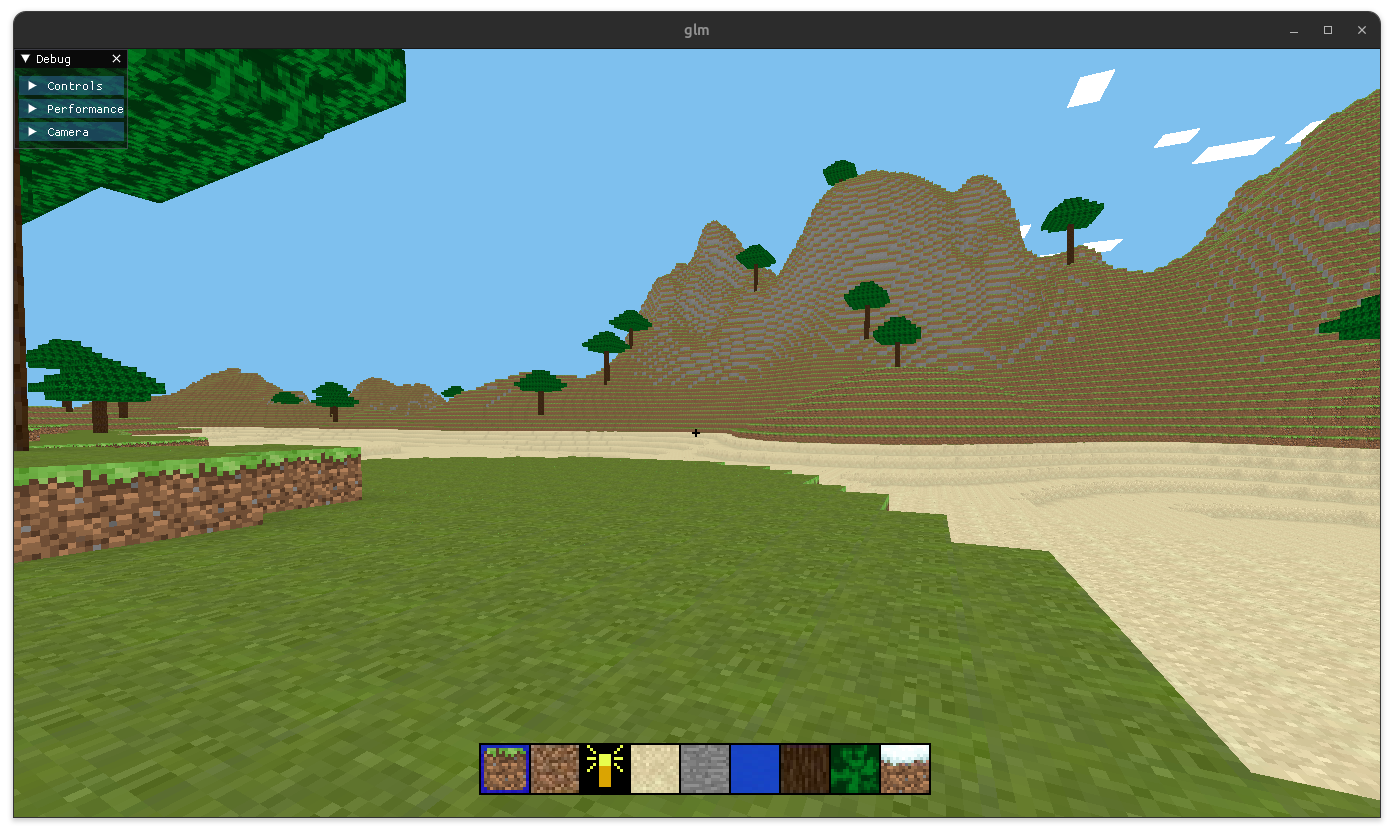
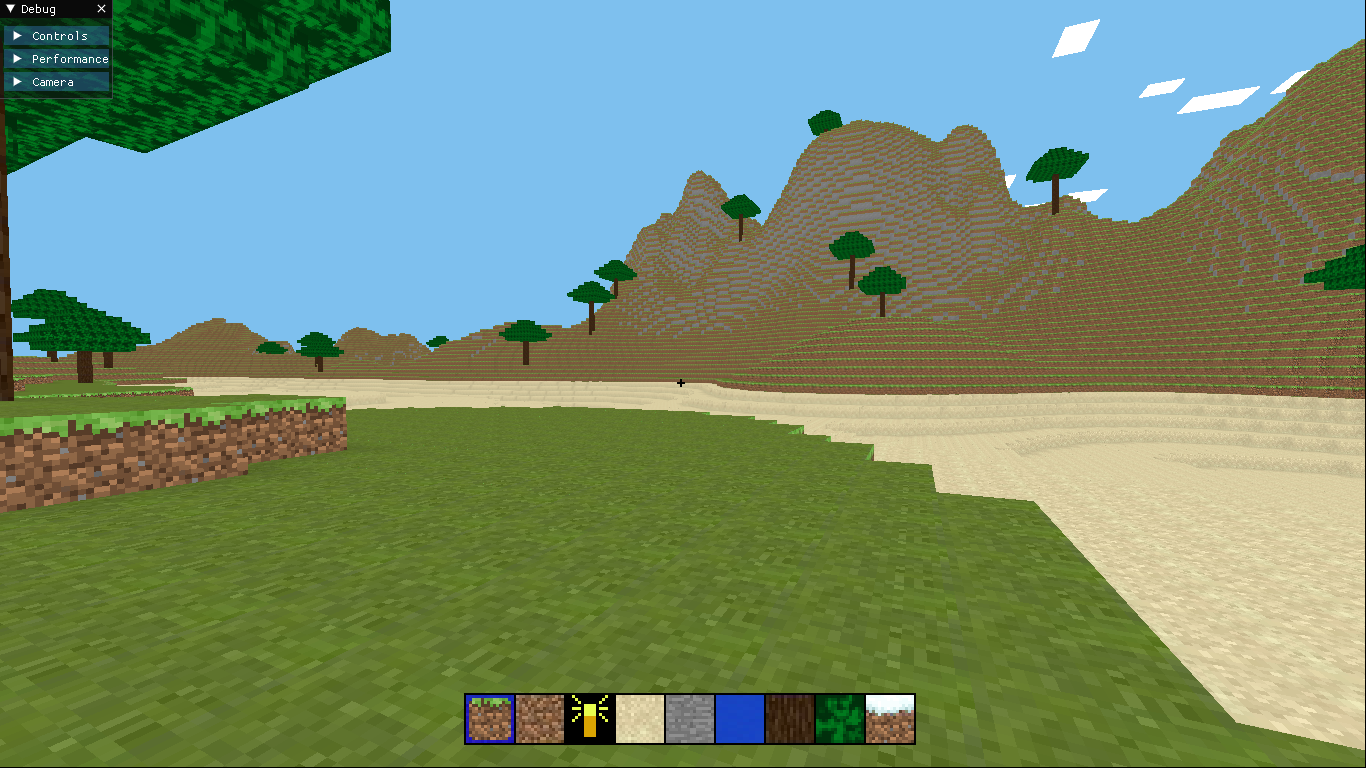
readme and screenshot update

diff --git a/README.md b/README.md
@@ -1,1 +1,4 @@
-# A voxel-based game made for academic purposes. It will be accompanied by some write-ups for anyone who might be interested in some of the issues surrounding this type of project
+# Craft is a voxel-based game that serves as venture into the world of 3D game development. It serves as a canvas for me to learn and experiment with various aspects of the field. I hope to publish some accompanying texts going into more detail about various challenges that relate to the project.
+
+![Voxel Game Screenshot](screenshots/2023-09-27.png)
+![Voxel Game Screenshot](screenshots/2023-09-27-2.png)
